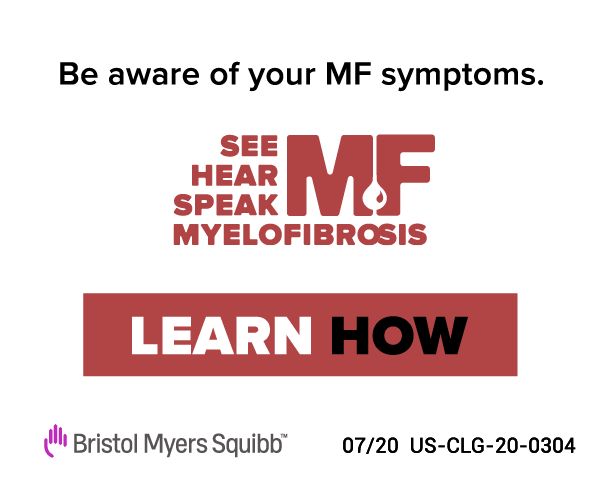
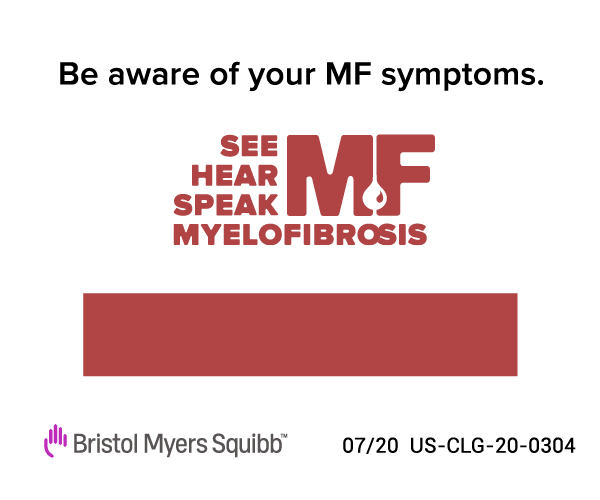
finished for Vallyn's approval

Changed region(s): [[0.21, 0.63, 0.78, 0.72], [0.69, 0.87, 0.96, 0.9], [0.57, 0.87, 0.66, 0.9]]

diff --git a/CLG35668_Unbranded_300x250_Banner/index.html b/CLG35668_Unbranded_300x250_Banner/index.html
@@ -92,7 +92,8 @@
             background-color: #cf8b82;
         }
 
-        .frame_3_animated_svgs, .frame_3_tear {
+        .frame_3_animated_svgs, .frame_3_tear, 
+        .learn_how_wb, .learn_how_bw {
             position: absolute;
             top: 0;
             left: 0;
@@ -115,7 +116,7 @@
             left: 0;
             width: 300px;
             height: 250px;
-            opacity: 10;
+            opacity: 1;
         }
         .frame_4_art {
             position: absolute;
@@ -180,6 +181,8 @@
             var hearSVG = document.querySelector('#hear_svg');
             var speakSVG = document.querySelector('#speak_svg');
             var frame4Art = document.querySelector('.frame_4_art');
+            var learnHowWB = document.querySelector('.learn_how_wb');
+            var learnHowBW = document.querySelector('.learn_how_bw');
             // elements
             var bannerContent = document.querySelector('.banner-content');
 
@@ -191,7 +194,9 @@
                     './images/see_face_300x250b.jpg',
                     './images/see_spritesheet_300x250b.png',
                     './images/frame_2_copy_300x250b.png',
-                    './images/frame_4_art_300x250b.png'
+                    './images/frame_4_art_300x250b.png',
+                    './images/learn_how_w_b_300x250b.png',
+                    './images/learn_how_b_w_300x250b.png',
                 ];
 
                 for (var i = 0; i < images.length; i++) {
@@ -208,6 +213,8 @@
                     tearSpritesheet.src = images[1];
                     frame2Copy.src = images[2];
                     frame4Art.src = images[3];
+                    learnHowWB.src = images[4];
+                    learnHowBW.src = images[5];
                     init();
                }
             }
@@ -256,7 +263,20 @@
 
               .to(speakSVG, .4, {opacity: 1, ease: Circ.easeIn},'-=.5')
               .to(speakSVG, .4, {opacity: 0, ease: Power1.easeOut},'+=.5')
-              .to(frame4Art, 1.2, {opacity: 1, ease: Sine.easeInOut},'+=2');
+              .to([frame4Art,learnHowWB],  1, {opacity: 1, ease: Sine.easeInOut},'+=1')
+              .to(learnHowWB,  .3, {opacity: 0, ease: Sine.easeInOut})
+              .to(learnHowBW,  .2, {opacity: 1, ease: Sine.easeInOut},'-=.2')
+              .to(learnHowBW,  .2, {opacity: 0, ease: Sine.easeInOut},'+=.3')
+              .to(learnHowWB,  .2, {opacity:1, ease: Sine.easeInOut},'-=.2')
+              .to(learnHowWB,  .2, {opacity:0, ease: Sine.easeInOut},'+=.3')
+              .to(learnHowBW,  .2, {opacity: 1, ease: Sine.easeInOut},'-=.2')
+              .to(learnHowBW,  .2, {opacity: 0, ease: Sine.easeInOut},'+=.3')
+              .to(learnHowWB,  .2, {opacity:1, ease: Sine.easeInOut},'-=.2')
+              .to(learnHowWB,  .2, {opacity:0, ease: Sine.easeInOut},'+=.3')
+              .to(learnHowBW,  .2, {opacity: 1, ease: Sine.easeInOut},'-=.2')
+              .to(learnHowBW,  .2, {opacity: 0, ease: Sine.easeInOut},'+=.3')
+              .to(learnHowWB,  .2, {opacity:1, ease: Sine.easeInOut},'-=.2')              
+              ;
 
 
 
@@ -361,6 +381,8 @@
                 <!--frame 4-->
                 <div class="frame_4">
                         <img src="" alt="" class="frame_4_art"> 
+                        <img src="" alt="" class="learn_how_bw"> 
+                        <img src="" alt="" class="learn_how_wb"> 
                 </div>
                 <!--frame 4-->
         </div><!-- end banner content -->
